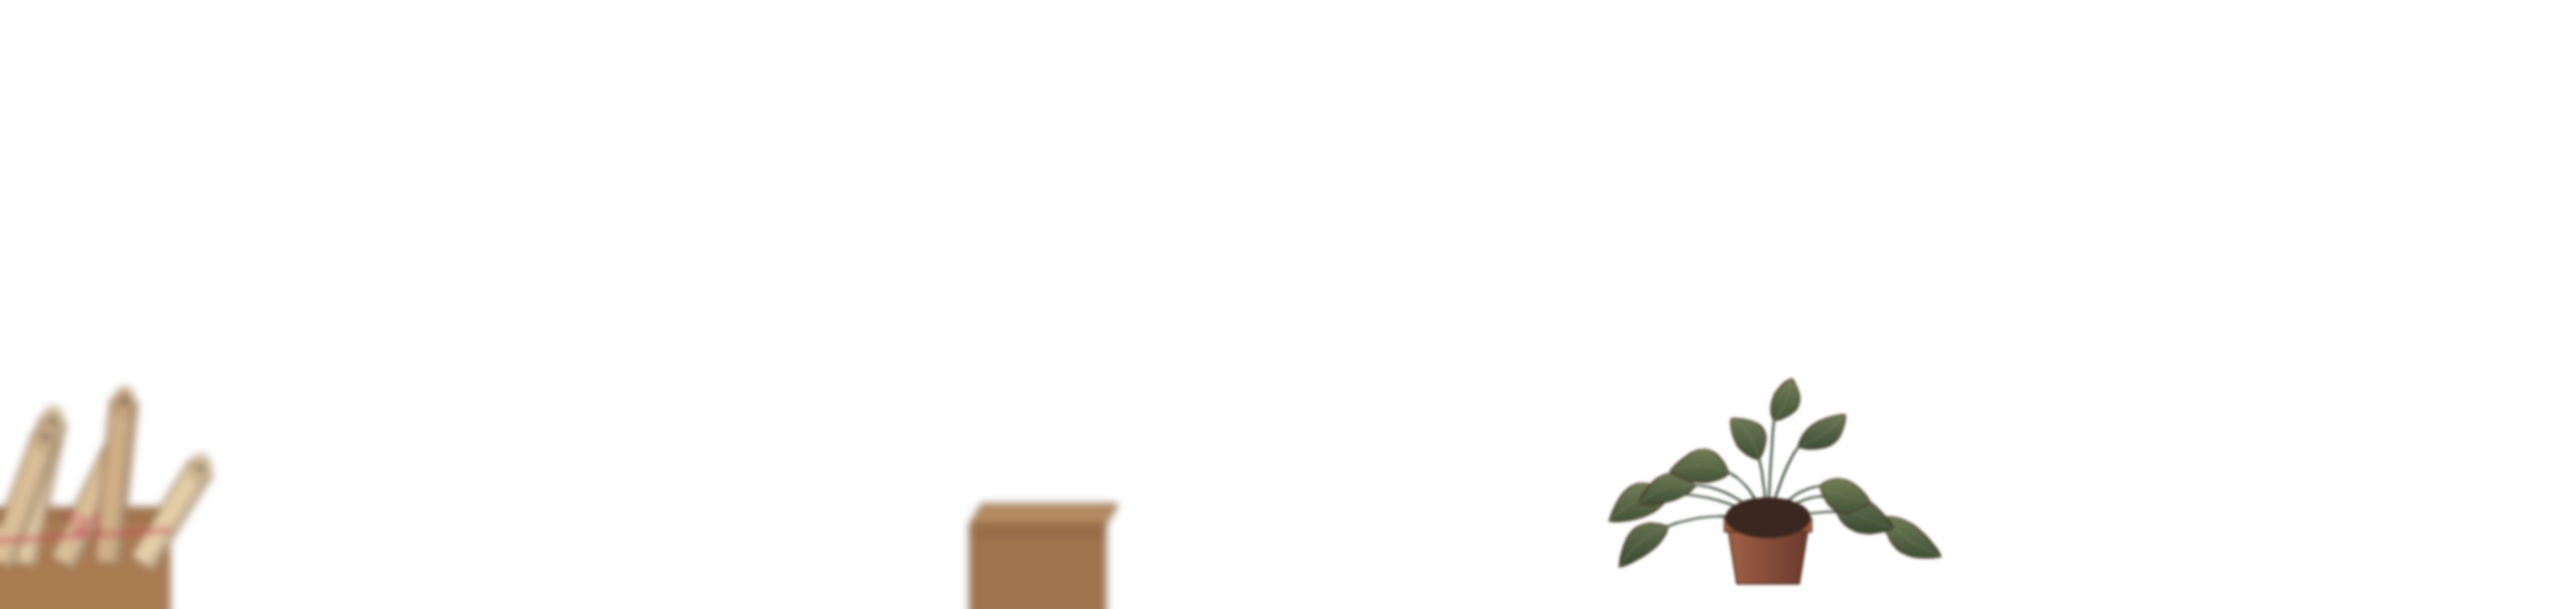
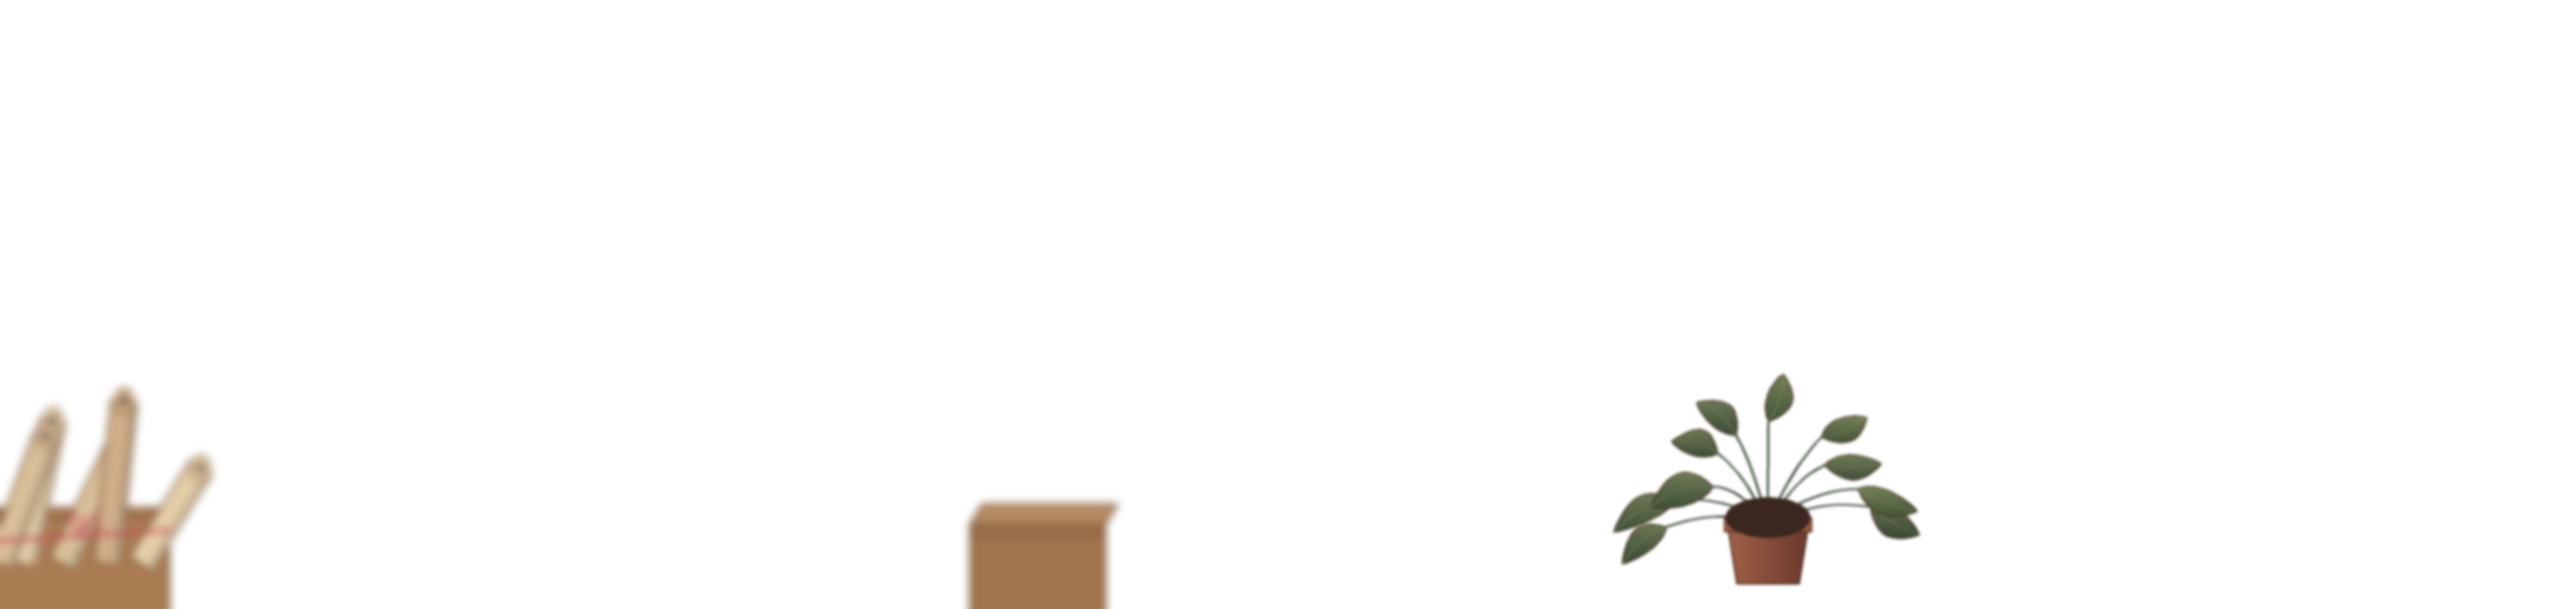
사과나무를 줄기·가지·잎 뭉치 구조로 다시 그린다 (#151)
- house_objects.apple_tree: 밑동이 퍼진 줄기 → 휘어진 굵은 가지 셋 → 잔가지 → 가지 끝 잎 뭉치(작은 잎 수백 장, 빛 쪽 밝고 아래 뭉치일수록 어둡게). 뭉치 사이로 가지와 하늘이 비친다
- 나무 한 그루를 통째로 따로 그려 아래를 붙인 채 살랑이게(sway), 맨 앞 가지도 같은 잎 뭉치로

Claude-Session: https://claude.ai/code/session_01J4uuBjb9dFExxEE8Rhw3pJ

Changed region(s): [[0.6217, 0.6111, 0.7771, 0.9472]]

diff --git a/tools/painters/house_objects.py b/tools/painters/house_objects.py
@@ -345,11 +345,127 @@ def potted_plant(c: Ink, x, base, rng, s=1.0):
     ell(c, x, base - 94 * s, 60 * s, O_ / 2 + 3, (70, 50, 36, 255), lw=1.2)
 
 
+
+# ---------------------------------------------------------------- 사과나무 (#151, 다시)
+#
+# 공·바위·빵 같던 덩어리 대신 나무 구조를 그대로 그린다:
+#   줄기(밑동이 퍼지고 껍질 결) → 굵은 가지 셋 → 잔가지(재귀) → 가지 끝마다 잎 뭉치.
+#   잎 뭉치 = 그늘색 바탕 덩어리 + 작은 잎 수백 장(뭉치 안에서 빛 쪽은 밝고 반대쪽은 어둡게, 아래 뭉치일수록 어둡게).
+#   뭉치 사이로 가지와 하늘이 비친다. 사과는 뭉치 아래쪽에 매달려 잎에 조금씩 가린다.
+
+BARK = (112, 80, 58, 255)
+LEAF_SHADE = (104, 110, 58, 255)
+LEAF_MID = (160, 158, 72, 255)
+LEAF_LIT = (214, 204, 110, 255)
+LEAF_WARM = (206, 146, 64, 255)
+
+
+def _limb(c: Ink, x0, y0, x1, y1, w0, w1, col=BARK, bend=0.0):
+    """끝이 가는 가지 한 토막. bend만큼 옆으로 휜다(빛 쪽 왼편이 밝다). 이음매는 둥근 마디로 감춘다."""
+    ang = math.atan2(y1 - y0, x1 - x0)
+    nx, ny = -math.sin(ang), math.cos(ang)
+    left, right = [], []
+    for k in range(9):
+        t = k / 8
+        off = math.sin(math.pi * t) * bend
+        px, py = x0 + (x1 - x0) * t + nx * off, y0 + (y1 - y0) * t + ny * off
+        w = w0 + (w1 - w0) * t
+        left.append((px + nx * w / 2, py + ny * w / 2))
+        right.append((px - nx * w / 2, py - ny * w / 2))
+    c.grad(left + right[::-1], lite(col, 0.18), dark(col, 0.28), axis="x", lw=1.6)
+    c.ellipse(x1 - w1 / 2, y1 - w1 / 2, x1 + w1 / 2, y1 + w1 / 2, mix(col, dark(col, 0.28), 0.5), line=False)
+
+
+def _branches(c: Ink, rng, x, y, ang, ln, w, depth, tips, mids):
+    x1, y1 = x + math.cos(ang) * ln, y + math.sin(ang) * ln
+    c.ellipse(x - w / 2, y - w / 2, x + w / 2, y + w / 2, mix(BARK, dark(BARK, 0.28), 0.4), line=False)  # 갈라지는 마디
+    _limb(c, x, y, x1, y1, w, w * 0.7, bend=rng.uniform(-0.12, 0.12) * ln)
+    mids.append(((x + x1) / 2, (y + y1) / 2, w))
+    if depth == 0:
+        tips.append((x1, y1, w))
+        return
+    n = 2 if depth > 1 else rng.choice((2, 3))
+    for k in range(n):
+        da = math.radians(rng.uniform(16, 34)) * (1 if k % 2 else -1) + math.radians(rng.uniform(-8, 8))
+        _branches(c, rng, x1, y1, ang + da, ln * rng.uniform(0.62, 0.78), w * 0.68, depth - 1, tips, mids)
+
+
+def _cluster_leaves(c: Ink, rng, cx, cy, r, t_y, light=(-0.6, -0.8)):
+    """잎 뭉치의 잎 수백 장. 뭉치 안에서 빛 쪽은 밝고 반대쪽은 어둡다. t_y = 나무 안 높이(0 위 ~ 1 아래)."""
+    shade = mix(LEAF_SHADE, (80, 84, 48, 255), t_y * 0.6)
+    mid = mix(LEAF_MID, LEAF_SHADE, t_y * 0.5)
+    lit = mix(LEAF_LIT, LEAF_MID, t_y * 0.45)
+    lx, ly = light
+    leaves = []
+    for _ in range(int(r * r / 26)):
+        a = rng.uniform(0, math.tau)
+        d = math.sqrt(rng.uniform(0, 1))
+        px, py = cx + math.cos(a) * r * d, cy + math.sin(a) * r * 0.78 * d
+        side = (math.cos(a) * lx + math.sin(a) * ly) * d
+        leaves.append((side + rng.uniform(-0.25, 0.25), px, py))
+    leaves.sort()
+    for side, px, py in leaves:
+        col = lit if side > 0.35 else (mid if side > -0.15 else mix(shade, mid, 0.4))
+        if rng.random() < 0.14:
+            col = mix(col, LEAF_WARM, 0.7)  # 누렇게·붉게 물든 잎
+        ang = rng.uniform(0, math.tau) if rng.random() < 0.3 else math.radians(rng.uniform(40, 140))
+        L, W = rng.uniform(14, 22), rng.uniform(6, 9)
+        ux, uy = math.cos(ang), math.sin(ang)
+        pts = [(px - ux * L / 2, py - uy * L / 2), (px - ux * L * 0.1 + uy * W / 2, py - uy * L * 0.1 - ux * W / 2),
+               (px + ux * L / 2, py + uy * L / 2), (px - ux * L * 0.1 - uy * W / 2, py - uy * L * 0.1 + ux * W / 2)]
+        c.poly(pts, col, line=False)
+
+
+def apple_tree(c: Ink, rng, x, base, h=640, apples=18):
+    """사과나무 한 그루(세계 크기, 원점 = 밑동 가운데 땅). 높이 h, 폭은 약 1.2h.
+    줄기 → 굵은 가지 셋(휘어진다) → 잔가지 → 가지 끝과 가지 가운데에 잎 뭉치. 뭉치는 윤곽 → 바탕 → 잎 순서로
+    모두 한꺼번에 깔아 뭉치끼리 겹친 안쪽에는 선이 안 남고, 뭉치 사이로 가지와 하늘이 비친다."""
+    tw = 58
+    top = base - h * 0.3
+    flare = [(x - tw * 1.0, base), (x - tw * 0.62, base - 12), (x - tw * 0.5, base - 40)]
+    trunk = flare + [(x - tw * 0.44, top), (x + tw * 0.4, top), (x + tw * 0.48, base - 44), (x + tw * 0.6, base - 14), (x + tw * 1.05, base)]
+    c.grad(trunk, lite(BARK, 0.15), dark(BARK, 0.3), axis="x", lw=1.8, cast=True)
+    for k in range(5):
+        xx = x - tw * 0.3 + k * tw * 0.15
+        c.stroke([(xx, base - 6), (xx + rng.uniform(-5, 5), base - h * 0.15), (xx + rng.uniform(-4, 4), top + 6)], 1.1, alpha(dark(BARK, 0.4), 150))
+    tips, mids = [], []
+    for ang, ln in ((-124, h * 0.3), (-92, h * 0.33), (-58, h * 0.3)):
+        _branches(c, rng, x + (ang + 93) * 0.22, top + 10, math.radians(ang + rng.uniform(-5, 5)), ln, tw * 0.52, 2, tips, mids)
+    # 잎 뭉치 자리: 가지 끝(크게) + 가운데 가지 몇(채우기)
+    clusters = [(tx + rng.uniform(-8, 8), ty + rng.uniform(-4, 12), rng.uniform(70, 98)) for tx, ty, w in tips]
+    for mx, my, w in mids:
+        if my < top - h * 0.28 and rng.random() < 0.6:
+            clusters.append((mx, my - 10, rng.uniform(60, 80)))
+    ys = [q[1] for q in clusters]
+    y_top, y_bot = min(ys), max(ys)
+    blobs = [_blob(cx, cy, r * 0.82, rng, rough=0.16, squash=0.8) for cx, cy, r in clusters]
+    for (cx, cy, r), pts in zip(clusters, blobs):  # 1. 바깥 윤곽(조금 크게)
+        c.poly([(cx + (px - cx) * 1.05, cy + (py - cy) * 1.06) for px, py in pts], LINE, line=False)
+    for (cx, cy, r), pts in zip(clusters, blobs):  # 2. 그늘색 바탕
+        t_y = (cy - y_top) / max(1.0, y_bot - y_top)
+        c.poly(pts, mix(LEAF_SHADE, (80, 84, 48, 255), t_y * 0.6), line=False)
+    order = sorted(range(len(clusters)), key=lambda i: -clusters[i][1])  # 3. 잎(아래 뭉치부터)
+    apple_spots = []
+    for i in order:
+        cx, cy, r = clusters[i]
+        _cluster_leaves(c, rng, cx, cy, r, (cy - y_top) / max(1.0, y_bot - y_top))
+        a = rng.uniform(0.3, math.pi - 0.3)
+        apple_spots.append((cx + math.cos(a) * r * 0.55, cy + math.sin(a) * r * 0.42))
+        a = rng.uniform(0.3, math.pi - 0.3)
+        apple_spots.append((cx + math.cos(a) * r * 0.4, cy + math.sin(a) * r * 0.5))
+    rng.shuffle(apple_spots)
+    for ax, ay in apple_spots[:apples]:
+        rr = rng.uniform(8.5, 11.5)
+        c.stroke([(ax, ay - rr), (ax + 2, ay - rr - 7)], 1.6, (80, 58, 38, 255))
+        c.grad(ink.ellipse_pts(ax - rr, ay - rr, ax + rr, ay + rr * 0.95), (236, 74, 60, 255), (150, 26, 32, 255), lw=1.4)
+        c.ellipse(ax - rr * 0.55, ay - rr * 0.6, ax - rr * 0.15, ay - rr * 0.25, (255, 220, 200, 255), line=False)
+
 OBJECTS = {
     "armchair": (armchair, 420, 340), "side_table": (side_table, 200, 360), "yarn_basket": (yarn_basket, 160, 140),
     "ladder_chair": (ladder_chair, 200, 380), "dining_table": (dining_table, 420, 260), "rocking_chair": (rocking_chair, 320, 420),
     "newspapers": (newspapers, 140, 90),
     "apple": (lambda c, x, b: apple_tree_canopy(c, __import__("random").Random(3), x, b - 200), 640, 420),
+    "tree": (lambda c, x, b: apple_tree(c, __import__("random").Random(7), x, b), 900, 700),
     "plant": (lambda c, x, b: potted_plant(c, x, b, __import__("random").Random(5)), 520, 360),
 }
 

diff --git a/tools/painters/house_down.py b/tools/painters/house_down.py
@@ -405,12 +405,7 @@ def furniture_layer(width: float, mk, rng) -> tuple[Image.Image, Image.Image, in
         ly = FLOOR_W - 42 - (k // 3) * 40
         c.grad(ink.ellipse_pts(lx, ly, lx + 44, ly + 40), (206, 166, 116, 255), (160, 120, 80, 255), lw=1.6, cast=True)
         c.ellipse(lx + 12, ly + 10, lx + 32, ly + 30, (150, 110, 70, 255), lw=1.0)
-    tx = mk("1-6", 7110.0) - 120
-    bark = (110, 78, 56, 255)
-    c.grad([(tx - 36, FLOOR_W + 4), (tx - 20, 560), (tx - 64, 360), (tx - 30, 356), (tx + 4, 520), (tx + 44, 340),
-            (tx + 76, 352), (tx + 26, 560), (tx + 38, FLOOR_W + 4)], (140, 104, 76, 255), (90, 62, 44, 255), axis="x", cast=True)
-    for k in range(5):
-        c.stroke([(tx - 18 + k * 9, 780), (tx - 12 + k * 7, 600)], 1.4, dark(bark, 0.3))
+    tx = mk("1-6", 7110.0) - 120  # 사과나무 밑동(나무는 따로 그린 그림 — _apple_tree, 바람에 살랑인다)
     for _ in range(5):
         ax2 = tx + rng.uniform(-200, 200)
         c.ellipse(ax2 - 11, FLOOR_W - 18, ax2 + 11, FLOOR_W + 2, (196, 44, 40, 255), lw=1.4)
@@ -433,12 +428,16 @@ def furniture_layer(width: float, mk, rng) -> tuple[Image.Image, Image.Image, in
     return ink.to_plane(img, FURN_S, w), canopy, w
 
 
+TREE_W, TREE_H, TREE_BASE = 1000, 760, 740  # 사과나무 그림 크기와 그림 안 밑동 높이(세계 크기)
+
+
 def _apple_canopy(rng, tx) -> Image.Image:
-    """사과나무 잎 덩어리(따로 그려 살랑이게). 세계 크기, 둘레 여백."""
+    """사과나무 한 그루(줄기·가지·잎·사과). 따로 그려 가구 층에 얹고 아래를 붙인 채 바람에 살랑이게 한다.
+    세계 크기, 밑동 = 그림 (TREE_W/2, TREE_BASE)."""
+    import random as _r
     import house_objects as O
-    W, Hh = 700, 420
-    c = Ink(W, Hh)
-    O.apple_tree_canopy(c, rng, W / 2, 230, 270, 150, 16)
+    c = Ink(TREE_W, TREE_H)
+    O.apple_tree(c, _r.Random(7), TREE_W / 2, TREE_BASE)
     return c.finish()
 
 
@@ -659,14 +658,21 @@ def front_world(width: float, mk, rng) -> Image.Image:
     import house_objects as O
     for px in (2700, 4300, 5880):  # 큰 화분(화면 아래 가장자리에서 잎이 올라온다)
         O.potted_plant(c, px, FLOOR_W + 60, rng, 1.0)
-    # 마당 사과나무 가지(위에서 늘어진다)
+    # 마당 사과나무 가지(화면 위에서 늘어진다): 나무와 같은 잎 뭉치
     ax = mk("1-6", 7110.0) + 40
-    c.stroke([(ax - 420, -20), (ax - 160, 40), (ax + 160, 20)], 18, (90, 64, 46, 255))
-    blobs = [(ax - 360 + k * 70 + rng.uniform(-20, 20), 50 + rng.uniform(-20, 40), rng.uniform(36, 56)) for k in range(10)]
-    O.leaf_mass(c, rng, blobs, [(176, 154, 72, 255), (226, 198, 104, 255), (108, 98, 54, 255)])
-    for _ in range(5):
-        bx, by = ax - 300 + rng.uniform(0, 460), rng.uniform(70, 120)
-        c.grad(ink.ellipse_pts(bx - 11, by - 11, bx + 11, by + 11), (232, 70, 60, 255), (160, 28, 32, 255), lw=1.4)
+    O._limb(c, ax - 460, -30, ax - 120, 40, 26, 16, bend=20)
+    O._limb(c, ax - 120, 40, ax + 180, 20, 16, 9, bend=-14)
+    br = random.Random(21)
+    spots = [(ax - 330, 40, 70), (ax - 170, 70, 80), (ax - 10, 60, 74), (ax + 140, 40, 64)]
+    blobs = [O._blob(x, y, r * 0.82, br, rough=0.16, squash=0.8) for x, y, r in spots]
+    for (x, y, r), pts in zip(spots, blobs):
+        c.poly([(x + (px - x) * 1.05, y + (py - y) * 1.06) for px, py in pts], O.LINE, line=False)
+    for pts in blobs:
+        c.poly(pts, O.LEAF_SHADE, line=False)
+    for x, y, r in spots:
+        O._cluster_leaves(c, br, x, y, r, 0.6)
+    for x, y in ((ax - 150, 120), (ax + 20, 112), (ax - 300, 96)):
+        c.grad(ink.ellipse_pts(x - 11, y - 11, x + 11, y + 11), (236, 74, 60, 255), (150, 26, 32, 255), lw=1.4)
     img = c.finish()
     lm = LightMap(WORLD_W, 0.55)
     img = ink.light(img, lm.array(), SUN, SHADE)
